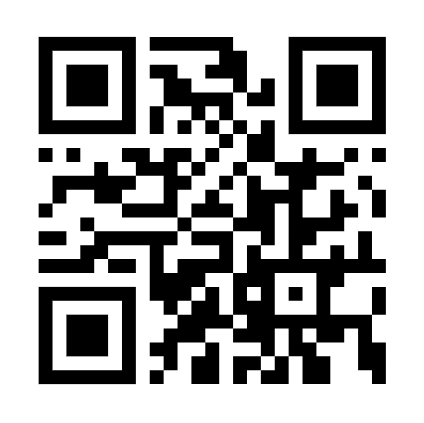
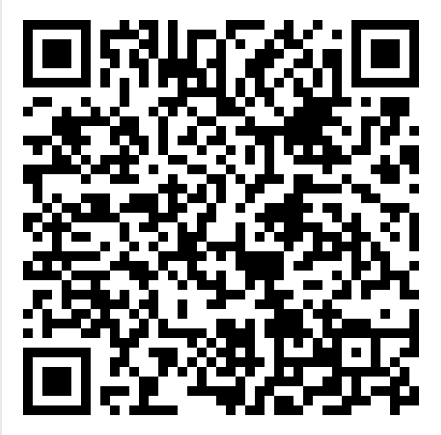
up

diff --git a/components/photo-upload-section.tsx b/components/photo-upload-section.tsx
@@ -12,7 +12,7 @@ const fadeIn: Variants = {
   hidden: { opacity: 0 },
   visible: {
     opacity: 1,
-    transition: { 
+    transition: {
       duration: 0.8,
       ease: [0.22, 1, 0.36, 1] as const
     }
@@ -38,8 +38,8 @@ const flyFromLeft: Variants = {
     opacity: 1,
     scale: 1,
     rotate: 0,
-    transition: { 
-      duration: 1.4, 
+    transition: {
+      duration: 1.4,
       ease: [0.16, 1, 0.3, 1] as const,
       type: "spring",
       stiffness: 60,
@@ -55,8 +55,8 @@ const flyFromRight: Variants = {
     opacity: 1,
     scale: 1,
     rotate: 0,
-    transition: { 
-      duration: 1.4, 
+    transition: {
+      duration: 1.4,
       ease: [0.16, 1, 0.3, 1] as const,
       type: "spring",
       stiffness: 60,
@@ -76,15 +76,15 @@ const fastStaggerContainer: Variants = {
 export default function PhotoUploadSection() {
   const t = useTranslation()
   const { language } = useLanguage()
-  
-  const driveLink = "https://drive.google.com/drive/folders/1GB8dqEoMXbY8KpLRnta-o1vgBD4VsWeh"
+
+  const driveLink = "https://drive.google.com/drive/folders/1oxEL5mAIRJI1QixzH9bLoejeQD2PkIUb"
 
   const handleUploadClick = () => {
     window.open(driveLink, "_blank")
   }
 
   return (
-    <motion.section 
+    <motion.section
       className="relative py-20 px-4 md:py-32 bg-gradient-to-b from-transparent via-accent/5 to-transparent overflow-hidden"
       initial="hidden"
       whileInView="visible"
@@ -92,14 +92,14 @@ export default function PhotoUploadSection() {
       variants={fastStaggerContainer}
     >
       {/* Animated Decorative Elements */}
-      <motion.div 
+      <motion.div
         className="absolute top-0 right-0 w-96 h-96 bg-accent/5 rounded-full blur-3xl"
         initial={{ x: 300, opacity: 0, scale: 0.5 }}
         whileInView={{ x: 0, opacity: 1, scale: 1 }}
         viewport={{ once: true }}
         transition={{ duration: 1.8, ease: "easeOut" }}
       />
-      <motion.div 
+      <motion.div
         className="absolute bottom-0 left-0 w-96 h-96 bg-accent/5 rounded-full blur-3xl"
         initial={{ x: -300, opacity: 0, scale: 0.5 }}
         whileInView={{ x: 0, opacity: 1, scale: 1 }}
@@ -108,19 +108,19 @@ export default function PhotoUploadSection() {
       />
 
       <div className="relative max-w-6xl mx-auto">
-        <motion.div 
+        <motion.div
           className="text-center mb-20"
           variants={fastStaggerContainer}
         >
           <motion.div className="flex items-center justify-center gap-4 mb-8" variants={flyFromLeft}>
-            <motion.div 
+            <motion.div
               className="w-32 h-px bg-gradient-to-r from-transparent via-accent to-transparent"
               initial={{ scaleX: 0, originX: 1 }}
               whileInView={{ scaleX: 1 }}
               viewport={{ once: true }}
               transition={{ duration: 1.2, delay: 0.2 }}
             />
-            <motion.div 
+            <motion.div
               className="relative"
               initial={{ scale: 0, rotate: -180 }}
               whileInView={{ scale: 1, rotate: 0 }}
@@ -129,7 +129,7 @@ export default function PhotoUploadSection() {
             >
               <Camera className="w-6 h-6 text-accent" />
             </motion.div>
-            <motion.div 
+            <motion.div
               className="w-32 h-px bg-gradient-to-r from-transparent via-accent to-transparent"
               initial={{ scaleX: 0, originX: 0 }}
               whileInView={{ scaleX: 1 }}
@@ -137,25 +137,25 @@ export default function PhotoUploadSection() {
               transition={{ duration: 1.2, delay: 0.2 }}
             />
           </motion.div>
-          <motion.h2 
-            className="font-luxury text-5xl md:text-6xl lg:text-7xl text-foreground leading-tight mb-4 tracking-wide" 
+          <motion.h2
+            className="font-luxury text-5xl md:text-6xl lg:text-7xl text-foreground leading-tight mb-4 tracking-wide"
             variants={flyFromRight}
           >
             {t('sharePhotosTitle')}
           </motion.h2>
-          <motion.p 
-            className="font-luxury text-xl md:text-2xl text-muted-foreground font-light max-w-3xl mx-auto italic" 
+          <motion.p
+            className="font-luxury text-xl md:text-2xl text-muted-foreground font-light max-w-3xl mx-auto italic"
             variants={scaleIn}
           >
             {t('sharePhotosDescription')}
           </motion.p>
         </motion.div>
 
-        <motion.div 
+        <motion.div
           className="max-w-3xl mx-auto"
           variants={scaleIn}
         >
-          <motion.div 
+          <motion.div
             className="relative bg-gradient-to-br from-card via-card/95 to-card/90 backdrop-blur-md border-2 border-accent/20 rounded-3xl p-10 md:p-14 shadow-2xl overflow-hidden"
             initial={{ scale: 0.9, opacity: 0, y: 50 }}
             whileInView={{ scale: 1, opacity: 1, y: 0 }}
@@ -163,24 +163,24 @@ export default function PhotoUploadSection() {
             transition={{ duration: 1, ease: [0.16, 1, 0.3, 1] }}
           >
             {/* Animated Decorative corner elements */}
-            <motion.div 
+            <motion.div
               className="absolute top-0 left-0 w-32 h-32 border-l-2 border-t-2 border-accent/30 rounded-tl-3xl"
               initial={{ x: -50, y: -50, opacity: 0 }}
               whileInView={{ x: 0, y: 0, opacity: 1 }}
               viewport={{ once: true }}
               transition={{ duration: 1, delay: 0.3 }}
             />
-            <motion.div 
+            <motion.div
               className="absolute bottom-0 right-0 w-32 h-32 border-r-2 border-b-2 border-accent/30 rounded-br-3xl"
               initial={{ x: 50, y: 50, opacity: 0 }}
               whileInView={{ x: 0, y: 0, opacity: 1 }}
               viewport={{ once: true }}
               transition={{ duration: 1, delay: 0.3 }}
             />
-            
+
             <div className="relative z-10">
               {/* QR Code Section */}
-              <motion.div 
+              <motion.div
                 className="flex flex-col items-center mb-10"
                 initial={{ opacity: 0, y: 20 }}
                 whileInView={{ opacity: 1, y: 0 }}
@@ -188,10 +188,10 @@ export default function PhotoUploadSection() {
                 transition={{ duration: 0.8, delay: 0.4 }}
               >
                 <div className="bg-white p-6 rounded-2xl shadow-lg mb-6 border-2 border-accent/10">
-                  <Image 
-                    src="/qr-code.png" 
-                    alt="QR Code" 
-                    width={200} 
+                  <Image
+                    src="/qr-code.png"
+                    alt="QR Code"
+                    width={200}
                     height={200}
                     className="w-[200px] h-[200px]"
                   />
@@ -205,7 +205,7 @@ export default function PhotoUploadSection() {
               </motion.div>
 
               {/* Divider */}
-              <motion.div 
+              <motion.div
                 className="flex items-center gap-4 my-10"
                 initial={{ scaleX: 0 }}
                 whileInView={{ scaleX: 1 }}
@@ -249,8 +249,8 @@ export default function PhotoUploadSection() {
                     <path d="M12 2L15.09 8.26L22 9.27L17 14.14L18.18 21.02L12 17.77L5.82 21.02L7 14.14L2 9.27L8.91 8.26L12 2Z" />
                   </svg>
                   <p className="font-luxury text-sm md:text-base text-center italic">
-                    {language === 'ar' 
-                      ? 'التقطوا صوراً خلال الحفل وارفعوها هنا' 
+                    {language === 'ar'
+                      ? 'التقطوا صوراً خلال الحفل وارفعوها هنا'
                       : 'Take photos during the event and upload them here'}
                   </p>
                   <svg className="w-5 h-5 text-accent" fill="currentColor" viewBox="0 0 24 24">
